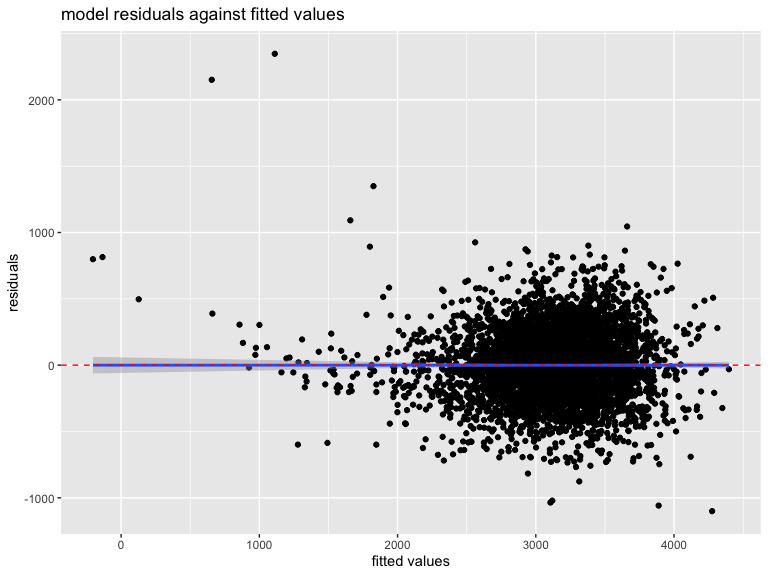
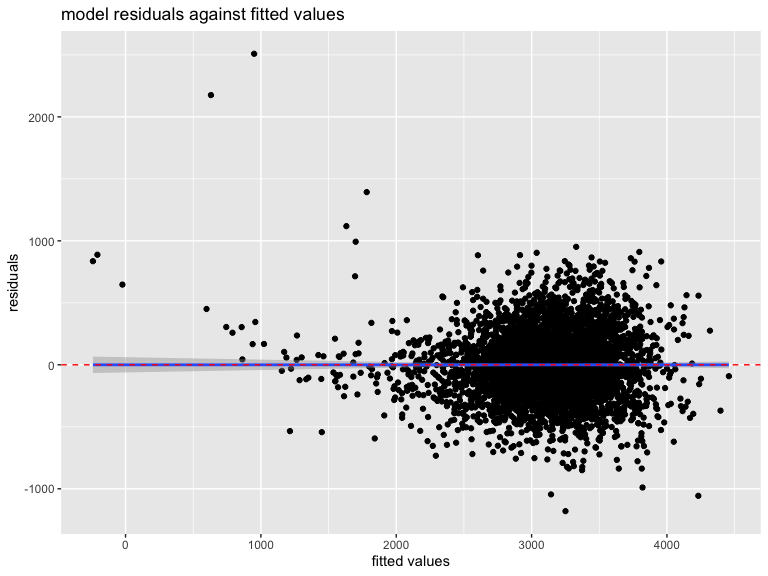
make some changes.

diff --git a/p8105_hw6_xw2676.md b/p8105_hw6_xw2676.md
@@ -26,89 +26,94 @@ birthweight = read_csv("./dataset/birthweight.csv") %>%
 
 ### Propose a regression model for birthweight.
 
-I’d like to build the model by anova test.
+I’d like to build the model by the following steps. First add all
+variables to the model, use test to check the significance of the
+variables, and then delete the variables that are not significant.
 
 ``` r
 ## add total variables as predictors
 fit1_1 = lm(bwt~babysex+bhead+blength+delwt+fincome+frace+gaweeks+malform+menarche+mheight+momage+mrace+parity+pnumlbw+pnumsga+ppbmi+ppwt+smoken+wtgain, data = birthweight)
 ## use anova to check significance of every variable
-anova(fit1_1)
+summary(fit1_1)
 ```
 
-    ## Analysis of Variance Table
     ## 
-    ## Response: bwt
-    ##             Df    Sum Sq   Mean Sq   F value    Pr(>F)    
-    ## babysex      1   8547634   8547634  115.1324 < 2.2e-16 ***
-    ## bhead        1 628838120 628838120 8470.1420 < 2.2e-16 ***
-    ## blength      1 140213755 140213755 1888.6107 < 2.2e-16 ***
-    ## delwt        1   8647158   8647158  116.4730 < 2.2e-16 ***
-    ## fincome      1   4845845   4845845   65.2712 8.394e-16 ***
-    ## frace        4  12713426   3178356   42.8109 < 2.2e-16 ***
-    ## gaweeks      1   4500541   4500541   60.6201 8.605e-15 ***
-    ## malform      1       529       529    0.0071  0.932737    
-    ## menarche     1     51223     51223    0.6899  0.406230    
-    ## mheight      1    535674    535674    7.2153  0.007256 ** 
-    ## momage       1        51        51    0.0007  0.979114    
-    ## mrace        3    682863    227621    3.0659  0.026879 *  
-    ## parity       1    495627    495627    6.6759  0.009805 ** 
-    ## ppbmi        1   2636579   2636579   35.5134 2.735e-09 ***
-    ## ppwt         1    142438    142438    1.9186  0.166085    
-    ## smoken       1   5076393   5076393   68.3765 < 2.2e-16 ***
-    ## Residuals 4320 320724338     74242                        
+    ## Call:
+    ## lm(formula = bwt ~ babysex + bhead + blength + delwt + fincome + 
+    ##     frace + gaweeks + malform + menarche + mheight + momage + 
+    ##     mrace + parity + pnumlbw + pnumsga + ppbmi + ppwt + smoken + 
+    ##     wtgain, data = birthweight)
+    ## 
+    ## Residuals:
+    ##      Min       1Q   Median       3Q      Max 
+    ## -1097.68  -184.86    -3.33   173.09  2344.15 
+    ## 
+    ## Coefficients: (3 not defined because of singularities)
+    ##                     Estimate Std. Error t value Pr(>|t|)    
+    ## (Intercept)       -6265.3914   660.4011  -9.487  < 2e-16 ***
+    ## babysexfemale        28.7073     8.4652   3.391 0.000702 ***
+    ## bhead               130.7781     3.4523  37.881  < 2e-16 ***
+    ## blength              74.9536     2.0217  37.075  < 2e-16 ***
+    ## delwt                 4.1007     0.3948  10.386  < 2e-16 ***
+    ## fincome               0.2898     0.1795   1.614 0.106551    
+    ## fraceblack           14.3313    46.1501   0.311 0.756168    
+    ## fraceasian           21.2361    69.2960   0.306 0.759273    
+    ## fracepuerto_rican   -46.9962    44.6782  -1.052 0.292912    
+    ## fraceother            4.2969    74.0741   0.058 0.953745    
+    ## gaweeks              11.5494     1.4654   7.882 4.06e-15 ***
+    ## malformpresent        9.7650    70.6259   0.138 0.890039    
+    ## menarche             -3.5508     2.8951  -1.226 0.220083    
+    ## mheight               9.7874    10.3116   0.949 0.342588    
+    ## momage                0.7593     1.2221   0.621 0.534418    
+    ## mraceblack         -151.4354    46.0453  -3.289 0.001014 ** 
+    ## mraceasian          -91.3866    71.9190  -1.271 0.203908    
+    ## mracepuerto_rican   -56.4787    45.1369  -1.251 0.210901    
+    ## parity               95.5411    40.4793   2.360 0.018307 *  
+    ## pnumlbw                   NA         NA      NA       NA    
+    ## pnumsga                   NA         NA      NA       NA    
+    ## ppbmi                 4.3538    14.8913   0.292 0.770017    
+    ## ppwt                 -3.4716     2.6121  -1.329 0.183913    
+    ## smoken               -4.8544     0.5871  -8.269  < 2e-16 ***
+    ## wtgain                    NA         NA      NA       NA    
     ## ---
     ## Signif. codes:  0 '***' 0.001 '**' 0.01 '*' 0.05 '.' 0.1 ' ' 1
+    ## 
+    ## Residual standard error: 272.5 on 4320 degrees of freedom
+    ## Multiple R-squared:  0.7183, Adjusted R-squared:  0.717 
+    ## F-statistic: 524.6 on 21 and 4320 DF,  p-value: < 2.2e-16
 
 ``` r
-## delete variables that are not significant
-fit1_2 = lm(bwt~babysex+bhead+blength+delwt+fincome+frace+gaweeks+mheight+parity+pnumlbw+pnumsga+ppbmi+smoken+wtgain, data = birthweight)
+## delete variables that are not significant(fincome, frace, malform, menarche, mheight, momage, mrace, pnumlbw, pnumsga, ppbmi, ppwt, wtgain)
+fit1 = lm(bwt~babysex+bhead+blength+delwt+gaweeks+parity+smoken, data = birthweight)
 ## check again
-anova(fit1_2)
+summary(fit1)
 ```
 
-    ## Analysis of Variance Table
     ## 
-    ## Response: bwt
-    ##             Df    Sum Sq   Mean Sq   F value    Pr(>F)    
-    ## babysex      1   8547634   8547634  114.9369 < 2.2e-16 ***
-    ## bhead        1 628838120 628838120 8455.7535 < 2.2e-16 ***
-    ## blength      1 140213755 140213755 1885.4025 < 2.2e-16 ***
-    ## delwt        1   8647158   8647158  116.2751 < 2.2e-16 ***
-    ## fincome      1   4845845   4845845   65.1603 8.869e-16 ***
-    ## frace        4  12713426   3178356   42.7382 < 2.2e-16 ***
-    ## gaweeks      1   4500541   4500541   60.5171 9.058e-15 ***
-    ## mheight      1    485434    485434    6.5275   0.01066 *  
-    ## parity       1    482506    482506    6.4881   0.01089 *  
-    ## ppbmi        1   2574412   2574412   34.6172 4.317e-09 ***
-    ## smoken       1   4941723   4941723   66.4495 4.656e-16 ***
-    ## wtgain       1    145342    145342    1.9544   0.16219    
-    ## Residuals 4326 321716299     74368                        
+    ## Call:
+    ## lm(formula = bwt ~ babysex + bhead + blength + delwt + gaweeks + 
+    ##     parity + smoken, data = birthweight)
+    ## 
+    ## Residuals:
+    ##      Min       1Q   Median       3Q      Max 
+    ## -1180.35  -183.47    -9.59   174.39  2508.92 
+    ## 
+    ## Coefficients:
+    ##                 Estimate Std. Error t value Pr(>|t|)    
+    ## (Intercept)   -6294.0426    97.0551 -64.850  < 2e-16 ***
+    ## babysexfemale    29.7598     8.7324   3.408 0.000660 ***
+    ## bhead           137.0235     3.5340  38.773  < 2e-16 ***
+    ## blength          78.8683     2.0709  38.083  < 2e-16 ***
+    ## delwt             2.0744     0.1993  10.411  < 2e-16 ***
+    ## gaweeks          14.3571     1.5011   9.564  < 2e-16 ***
+    ## parity          102.3021    41.7131   2.453 0.014225 *  
+    ## smoken           -2.1688     0.5820  -3.727 0.000196 ***
     ## ---
     ## Signif. codes:  0 '***' 0.001 '**' 0.01 '*' 0.05 '.' 0.1 ' ' 1
-
-``` r
-## delete variables that are not significant
-fit1 = lm(bwt~babysex+bhead+blength+delwt+fincome+frace+gaweeks+pnumlbw+pnumsga+ppbmi+smoken, data = birthweight)
-## check again
-anova(fit1)
-```
-
-    ## Analysis of Variance Table
     ## 
-    ## Response: bwt
-    ##             Df    Sum Sq   Mean Sq  F value    Pr(>F)    
-    ## babysex      1   8547634   8547634  114.745 < 2.2e-16 ***
-    ## bhead        1 628838120 628838120 8441.618 < 2.2e-16 ***
-    ## blength      1 140213755 140213755 1882.251 < 2.2e-16 ***
-    ## delwt        1   8647158   8647158  116.081 < 2.2e-16 ***
-    ## fincome      1   4845845   4845845   65.051 9.364e-16 ***
-    ## frace        4  12713426   3178356   42.667 < 2.2e-16 ***
-    ## gaweeks      1   4500541   4500541   60.416 9.528e-15 ***
-    ## ppbmi        1   2903251   2903251   38.974 4.708e-10 ***
-    ## smoken       1   4963975   4963975   66.637 4.239e-16 ***
-    ## Residuals 4329 322478489     74493                       
-    ## ---
-    ## Signif. codes:  0 '***' 0.001 '**' 0.01 '*' 0.05 '.' 0.1 ' ' 1
+    ## Residual standard error: 281.8 on 4334 degrees of freedom
+    ## Multiple R-squared:  0.6977, Adjusted R-squared:  0.6973 
+    ## F-statistic:  1429 on 7 and 4334 DF,  p-value: < 2.2e-16
 
 ``` r
 ## done!
@@ -195,7 +200,7 @@ cv_df =
     test = map(test, as_tibble))
 cv_df = 
   cv_df %>% 
-  mutate(fit1  = map(train, ~lm(bwt~babysex+bhead+blength+delwt+fincome+frace+gaweeks+pnumlbw+pnumsga+ppbmi+smoken, data = .x)),
+  mutate(fit1  = map(train, ~lm(bwt~babysex+bhead+blength+delwt+gaweeks+parity+smoken, data = .x)),
          fit2  = map(train, ~lm(bwt~blength+gaweeks, data = .x)),
          fit3  = map(train, ~lm(bwt~bhead+blength+babysex+bhead*blength+blength*babysex+babysex*bhead+bhead*blength*babysex, data = .x))) %>% 
   mutate(rmse_fit1 = map2_dbl(fit1, test, ~rmse(model = .x, data = .y)),
@@ -263,7 +268,7 @@ fit1
 
 <td style="text-align:center;">
 
-272.0988
+281.7073
 
 </td>
 
@@ -279,7 +284,7 @@ fit2
 
 <td style="text-align:center;">
 
-330.2529
+331.9586
 
 </td>
 
@@ -295,7 +300,7 @@ fit3
 
 <td style="text-align:center;">
 
-287.0685
+288.2977
 
 </td>
 
